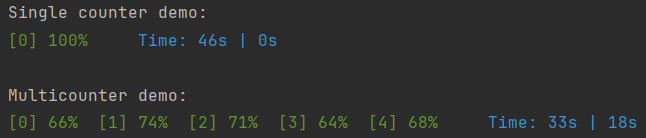
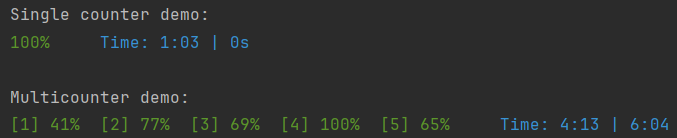
Small imporvements
Made progressMap independent of description, so multiple descriptions can be the same
Added AtomicInteger instead, so indices are distinct
Added descriptionMap for descriptions
Added current index to each Progress object to identify it in progressMap
Made description and list publicly available
Added SafeVarargs annotation to varargs methods
Inlined updateProgress method to directly access progressMap
Used Thread.ofVirtual() so execution is suspended while printer thread sleeps
Moved startTime inside the printer thread, so it only starts after the Progress object is actually created, not when Progress.reset() is called
Removed description if size < 0
Added 0 to seconds if seconds are only single digit and minutes are present
Updated Demo
Updated README

diff --git a/src/Progress.java b/src/Progress.java
@@ -1,21 +1,34 @@
 import java.util.*;
+import java.util.concurrent.atomic.AtomicInteger;
 import java.util.stream.Collectors;
 
 public class Progress<T> implements Iterable<T> {
-    private static final Map<String, Integer> progressMap = new HashMap<>();
-    private static int i = 0;
-    private static long startTime;
-    private final String description;
-    private final List<T> list;
+    private static final Map<Integer, Integer> progressMap = new HashMap<>();
+    private static final Map<Integer, String> descriptionMap = new HashMap<>();
+    private static final AtomicInteger i = new AtomicInteger();
+    private final int counterIndex;
+    public final String description;
+    public final List<T> list;
 
     static {
         reset();
     }
 
     private Progress(String description, List<T> list) {
-        progressMap.put(description, 0);
+        counterIndex = i.getAndIncrement();
+        progressMap.put(counterIndex, 0);
+        descriptionMap.put(counterIndex, description);
 
         this.description = description;
+        this.list = list;
+    }
+
+    private Progress(List<T> list) {
+        counterIndex = i.getAndIncrement();
+        progressMap.put(counterIndex, 0);
+
+        description = String.valueOf(counterIndex);
+        descriptionMap.put(counterIndex, description);
         this.list = list;
     }
 
@@ -24,7 +37,7 @@ public class Progress<T> implements Iterable<T> {
     }
 
     public static <T> Progress<T> of(List<T> list) {
-        return of(String.valueOf(i++), list);
+        return new Progress<>(list);
     }
 
     public static <T> Progress<T> of(String description, Collection<T> collection) {
@@ -35,10 +48,12 @@ public class Progress<T> implements Iterable<T> {
         return of(collection.stream().toList());
     }
 
+    @SafeVarargs
     public static <T> Progress<T> of(String description, T...array) {
         return of(description, Arrays.asList(array));
     }
 
+    @SafeVarargs
     public static <T> Progress<T> of(T...array) {
         return of(Arrays.asList(array));
     }
@@ -55,62 +70,55 @@ public class Progress<T> implements Iterable<T> {
 
             @Override
             public T next() {
-                updateProgress(description, (100 * i) / Math.max(1, list.size() - 1));
+                progressMap.put(counterIndex, (100 * i) / Math.max(1, list.size() - 1));
 
                 return list.get(i++);
             }
         };
     }
 
-    private static void updateProgress(String description, int percentage) {
-        progressMap.put(description, percentage);
-    }
-
     public static void reset() {
         progressMap.clear();
-        i = 0;
-        startTime = System.currentTimeMillis();
-        new Thread() {
-            @Override
-            public void run() {
-                super.run();
+        i.set(1);
 
-                while(progressMap.isEmpty()) {
-                    try {
-                        Thread.sleep(100);
-                    } catch(InterruptedException ignored) {}
-                }
+        Thread.ofVirtual().start(() ->  {
+            while(progressMap.isEmpty()) {
+                try {
+                    Thread.sleep(100);
+                } catch(InterruptedException ignored) {}
+            }
 
-                String oldString = "";
-                int minProgress = progressMap.values().stream()
+            long startTime = System.currentTimeMillis();
+
+            String oldString = "";
+            int minProgress = progressMap.values().stream()
+                    .min(Integer::compareTo)
+                    // stop if no minimum found
+                    .orElse(100);
+
+            while(minProgress < 100) {
+                minProgress = progressMap.values().stream()
                         .min(Integer::compareTo)
                         // stop if no minimum found
                         .orElse(100);
 
-                while(minProgress < 100) {
-                    minProgress = progressMap.values().stream()
-                            .min(Integer::compareTo)
-                            // stop if no minimum found
-                            .orElse(100);
+                String currString = "\u001B[32m" + progressMap.keySet().stream()
+                        .map(i -> (progressMap.size() > 1 || !descriptionMap.get(i).equals("1") ? "[" + descriptionMap.get(i) + "] " : "") + progressMap.get(i) + "%  ")
+                        .collect(Collectors.joining("", "", getTimeString(startTime, minProgress)));
 
-                    String currString = "\u001B[32m" + progressMap.keySet().stream()
-                            .map(d -> "[" + d + "] " + progressMap.get(d) + "%  ")
-                            .collect(Collectors.joining("", "", getTimeString(startTime, minProgress)));
+                if(!currString.equals(oldString)) {
+                    System.out.print("\b".repeat(oldString.length()));
 
-                    if(!currString.equals(oldString)) {
-                        System.out.print("\b".repeat(oldString.length()));
+                    oldString = currString;
 
-                        oldString = currString;
-
-                        System.out.print(currString);
-                    }
-
-                    try {
-                        Thread.sleep(100);
-                    } catch(InterruptedException ignored) {}
+                    System.out.print(currString);
                 }
+
+                try {
+                    Thread.sleep(100);
+                } catch(InterruptedException ignored) {}
             }
-        }.start();
+        });
     }
 
     private static String getTimeString(long startTime, int minProgress) {
@@ -135,6 +143,6 @@ public class Progress<T> implements Iterable<T> {
                 (d == 0 ? "" : (y > 0 ? "0".repeat(3 - String.valueOf(d).length()) + d : d) + "d") +
                 (h == 0 ? "" : (d > 0 ? "0".repeat(2 - String.valueOf(h).length()) + h : h) + ":") +
                 (min == 0 ? "" : (h > 0 ? "0".repeat(2 - String.valueOf(min).length()) + min : min) + ":") +
-                (h == 0 && min == 0 ? s + "s" : s);
+                (h == 0 && min == 0 ? s + "s" : (s < 10 ? "0" + s : s));
     }
 }

diff --git a/src/Demo.java b/src/Demo.java
@@ -3,19 +3,21 @@ import java.util.Random;
 import java.util.stream.IntStream;
 
 public class Demo {
-    public void count() {
-        Random r = new Random();
+    private static final int MAX_SLEEP_MS = 1000;
+    private static final int MAX_ELEMENTS_IN_LIST = 1234;
+    private static final Random r = new Random();
 
-        // Simulate real progress
+
+    public void count() {
         try {
-            // Sleep up to 1s
-            Thread.sleep(r.nextInt(1, 1000));
+            // Simulate real work by sleeping
+            Thread.sleep(r.nextInt(1, MAX_SLEEP_MS));
         } catch(InterruptedException ignored) {}
     }
 
     public static void main(String[] args) {
         System.out.println("Single counter demo:");
-        List<Demo> demos = IntStream.range(0, 100)
+        List<Demo> demos = IntStream.range(0, 123)
                 .mapToObj(i -> new Demo())
                 .toList();
 
@@ -29,13 +31,15 @@ public class Demo {
         System.out.println("\n\nMulticounter demo:");
         Progress.reset();
         IntStream.range(0, 5)
-                .mapToObj(l -> IntStream.range(0, 100)
+                // Random amount of list elements
+                .mapToObj(l -> IntStream.range(0, r.nextInt(MAX_ELEMENTS_IN_LIST))
                         .mapToObj(i -> new Demo())
                         .toList())
-                .parallel()
-                // Register multiple lists
-                .forEach(list -> {
-                    for(Demo d : Progress.of(list)) d.count();
-                });
+                // Register multiple counters in different threads
+                .forEach(list ->
+                    Thread.ofPlatform().start(() -> {
+                        for(Demo d : Progress.of(list)) d.count();
+                    })
+                );
     }
 }

diff --git a/README.md b/README.md
@@ -1,6 +1,6 @@
 # Progress
 
-This is a simple library for adding one or multiple console progress counter(s) to your project.
+This is a simple library for adding one or multiple console progress counters to your project.
 
 ![demo.png](demo.png)
 ### I want to use and/or adapt this project
@@ -12,8 +12,7 @@ Regardless of the license, it would be cool if you somehow mentioned, that you g
 1) Add as a library (here shown in IntelliJ) or add the code directly to your project
    ![lib.png](lib.png)
 2) Wrap the Object you want to track in `Progresss.of("optional description", someObj)` wherever you want to consume it e.g.
-   - You can use it anywhere, where you would use an iterator of a Collection or an Array, since it literally returns one
-   - The DESCRIPTIONS are used as a key to the progress map, SO THEY NEED TO BE UNIQUE
+   - You can use it anywhere, where you would use an `Iterator`, since the Iterator returned triggers the progress update
    - If you don't add a description, an incrementing counter will be added instead
    - ```
      for(Thing t : Progress.of(thingList)) {
@@ -21,11 +20,16 @@ Regardless of the license, it would be cool if you somehow mentioned, that you g
      }
      ```
 3) You can also register multiple Collections in multiple Threads
-4) If you want to reset the counter use `Progress.reset()`
+4) If you want to reset the counter use `Progress.reset()` (as late as possible)
 5) You can find more details in the [Demo.java](https://github.com/danielbinder/Progress/blob/master/src/Demo.java)
 
 ### Implementation details
 - Update rate of the counter is hard coded to 100ms.
+- The progress amount itself is not threadsafe, since syncing the numbers would unnecessarily take additional time, **since**
+  - either something is very fast, and you
+    - don't really need a progress counter or
+    - it's too fast for you to notice the slightly wrong numbers
+  - or it's slow enough that the progress is basically up2date after 100ms
 - The goal of complicated progress update loop is to reduce IO access as much as possible.
 - The progress will be shown as a percentage (int)
 - Time is `elapsed time | estimated time left`
